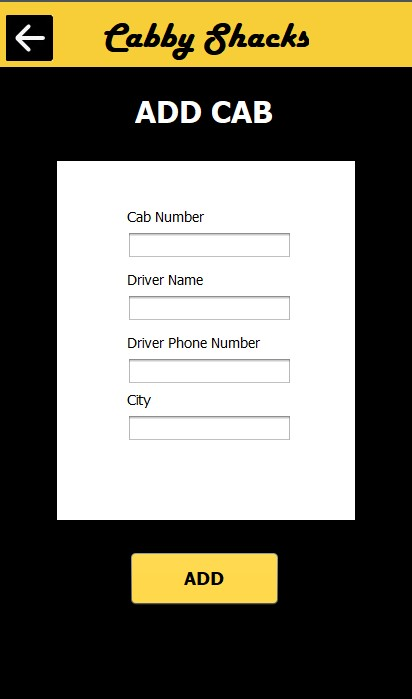
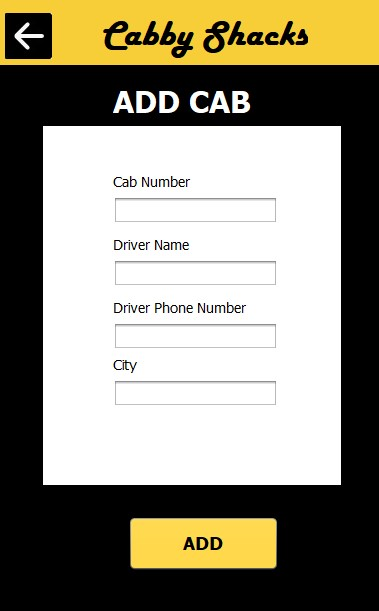
modeified frontend

Changed region(s): [[0.0, 0.0, 1.0, 0.9329], [0.2902, 0.2799, 0.7256, 0.653]]

diff --git a/CabBookingSystem/src/onlinecabsystem/frontend/AddCabPage.java b/CabBookingSystem/src/onlinecabsystem/frontend/AddCabPage.java
@@ -193,27 +193,28 @@ public class AddCabPage extends javax.swing.JFrame {
         jPanel1.setLayout(jPanel1Layout);
         jPanel1Layout.setHorizontalGroup(
             jPanel1Layout.createParallelGroup(javax.swing.GroupLayout.Alignment.LEADING)
+            .addComponent(jPanel3, javax.swing.GroupLayout.DEFAULT_SIZE, javax.swing.GroupLayout.DEFAULT_SIZE, Short.MAX_VALUE)
+            .addGroup(javax.swing.GroupLayout.Alignment.TRAILING, jPanel1Layout.createSequentialGroup()
+                .addGap(0, 44, Short.MAX_VALUE)
+                .addComponent(jPanel2, javax.swing.GroupLayout.PREFERRED_SIZE, javax.swing.GroupLayout.DEFAULT_SIZE, javax.swing.GroupLayout.PREFERRED_SIZE)
+                .addGap(38, 38, 38))
             .addGroup(jPanel1Layout.createSequentialGroup()
                 .addGroup(jPanel1Layout.createParallelGroup(javax.swing.GroupLayout.Alignment.LEADING)
-                    .addGroup(jPanel1Layout.createSequentialGroup()
-                        .addGap(57, 57, 57)
-                        .addComponent(jPanel2, javax.swing.GroupLayout.PREFERRED_SIZE, javax.swing.GroupLayout.DEFAULT_SIZE, javax.swing.GroupLayout.PREFERRED_SIZE))
                     .addGroup(jPanel1Layout.createSequentialGroup()
                         .addGap(129, 129, 129)
                         .addComponent(jButton1, javax.swing.GroupLayout.PREFERRED_SIZE, 151, javax.swing.GroupLayout.PREFERRED_SIZE))
                     .addGroup(jPanel1Layout.createSequentialGroup()
-                        .addGap(135, 135, 135)
+                        .addGap(114, 114, 114)
                         .addComponent(jLabel1)))
-                .addContainerGap(59, Short.MAX_VALUE))
-            .addComponent(jPanel3, javax.swing.GroupLayout.DEFAULT_SIZE, javax.swing.GroupLayout.DEFAULT_SIZE, Short.MAX_VALUE)
+                .addContainerGap(javax.swing.GroupLayout.DEFAULT_SIZE, Short.MAX_VALUE))
         );
         jPanel1Layout.setVerticalGroup(
             jPanel1Layout.createParallelGroup(javax.swing.GroupLayout.Alignment.LEADING)
             .addGroup(jPanel1Layout.createSequentialGroup()
                 .addComponent(jPanel3, javax.swing.GroupLayout.PREFERRED_SIZE, javax.swing.GroupLayout.DEFAULT_SIZE, javax.swing.GroupLayout.PREFERRED_SIZE)
-                .addPreferredGap(javax.swing.LayoutStyle.ComponentPlacement.RELATED, 55, Short.MAX_VALUE)
+                .addGap(18, 18, 18)
                 .addComponent(jLabel1)
-                .addGap(31, 31, 31)
+                .addPreferredGap(javax.swing.LayoutStyle.ComponentPlacement.RELATED, 34, Short.MAX_VALUE)
                 .addComponent(jPanel2, javax.swing.GroupLayout.PREFERRED_SIZE, javax.swing.GroupLayout.DEFAULT_SIZE, javax.swing.GroupLayout.PREFERRED_SIZE)
                 .addGap(31, 31, 31)
                 .addComponent(jButton1, javax.swing.GroupLayout.PREFERRED_SIZE, 55, javax.swing.GroupLayout.PREFERRED_SIZE)
@@ -224,11 +225,13 @@ public class AddCabPage extends javax.swing.JFrame {
         getContentPane().setLayout(layout);
         layout.setHorizontalGroup(
             layout.createParallelGroup(javax.swing.GroupLayout.Alignment.LEADING)
-            .addComponent(jPanel1, javax.swing.GroupLayout.DEFAULT_SIZE, 414, Short.MAX_VALUE)
+            .addComponent(jPanel1, javax.swing.GroupLayout.DEFAULT_SIZE, javax.swing.GroupLayout.DEFAULT_SIZE, Short.MAX_VALUE)
         );
         layout.setVerticalGroup(
             layout.createParallelGroup(javax.swing.GroupLayout.Alignment.LEADING)
-            .addComponent(jPanel1, javax.swing.GroupLayout.DEFAULT_SIZE, 700, Short.MAX_VALUE)
+            .addGroup(layout.createSequentialGroup()
+                .addComponent(jPanel1, javax.swing.GroupLayout.PREFERRED_SIZE, 666, javax.swing.GroupLayout.PREFERRED_SIZE)
+                .addGap(0, 0, Short.MAX_VALUE))
         );
 
         pack();

diff --git a/CabBookingSystem/src/onlinecabsystem/frontend/PreviousBookings.java b/CabBookingSystem/src/onlinecabsystem/frontend/PreviousBookings.java
@@ -187,7 +187,7 @@ public class PreviousBookings extends javax.swing.JFrame {
                 .addComponent(jButton1)
                 .addGap(18, 18, 18)
                 .addComponent(jScrollPane1, javax.swing.GroupLayout.PREFERRED_SIZE, 94, javax.swing.GroupLayout.PREFERRED_SIZE)
-                .addContainerGap(169, Short.MAX_VALUE))
+                .addContainerGap(241, Short.MAX_VALUE))
         );
 
         javax.swing.GroupLayout layout = new javax.swing.GroupLayout(getContentPane());
@@ -198,7 +198,7 @@ public class PreviousBookings extends javax.swing.JFrame {
         );
         layout.setVerticalGroup(
             layout.createParallelGroup(javax.swing.GroupLayout.Alignment.LEADING)
-            .addComponent(jPanel1, javax.swing.GroupLayout.PREFERRED_SIZE, javax.swing.GroupLayout.DEFAULT_SIZE, javax.swing.GroupLayout.PREFERRED_SIZE)
+            .addComponent(jPanel1, javax.swing.GroupLayout.DEFAULT_SIZE, 652, Short.MAX_VALUE)
         );
 
         pack();
